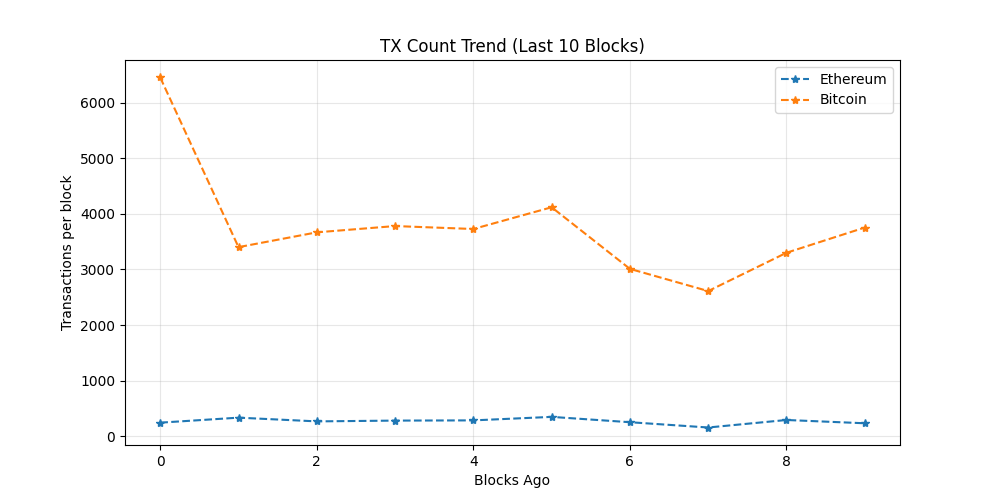
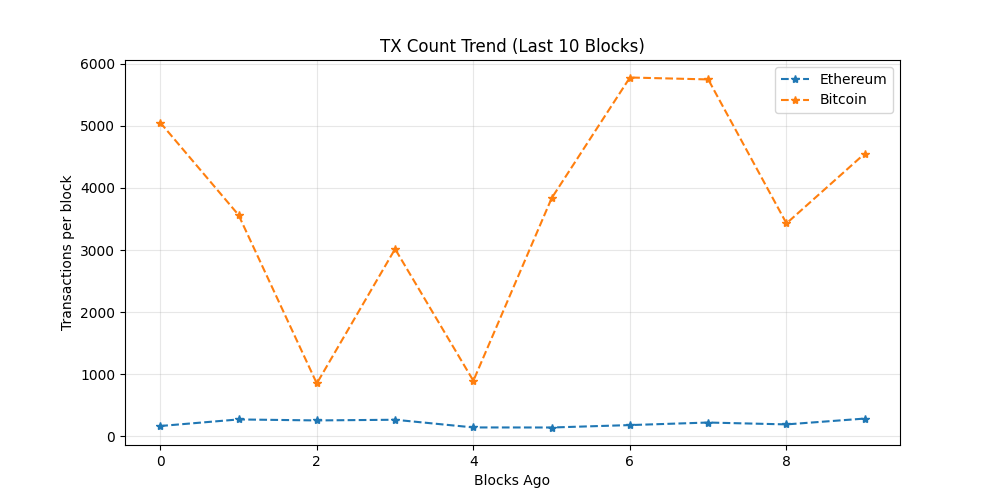
chore: update on-chain dashboard

diff --git a/README.md b/README.md
@@ -19,7 +19,7 @@ The README itself acts as the dashboard and is regenerated automatically on a 6 
 demonstrating a production-style, infrastructure-focused observability workflow rather
 than a traditional UI-driven approach.
 
-_Last updated: 2026-04-25 19:10 UTC_
+_Last updated: 2026-04-26 03:55 UTC_
 
 ## API Usage (GetBlock.io)
 - Calls used: **24**
@@ -27,8 +27,8 @@ _Last updated: 2026-04-25 19:10 UTC_
 ## Network Metrics
 | Chain | Block Height | TX Count | TPS (10 blk avg) | Block Util | Avg Fee |
 |------|-------------|----------|------------------|------------|---------|
-| Ethereum | 24959020 | 234 | 19.5 | 40.65% | 0.3 Gwei |
-| Bitcoin | 946625 | 3753 | 5.09 | 99.8% | N/A |
+| Ethereum | 24961632 | 283 | 23.58 | 99.83% | 0.1 Gwei |
+| Bitcoin | 946675 | 4555 | 4.49 | 99.79% | N/A |
 
 ## Visuals
 ### Transactions Trend
@@ -43,11 +43,8 @@ _Last updated: 2026-04-25 19:10 UTC_
 ## Whale Alerts (latest block)
 - Transaction hashes are truncated for readability.
 - Full hashes are available in `dashboards/metrics.json`
-- Bitcoin | 346.82 BTC | `e27bb4c03d2f…`
-- Bitcoin | 104.74 BTC | `34ac8e6ffce6…`
-- Bitcoin | 4113.15 BTC | `d0ec7a8eed50…`
-- Bitcoin | 754.52 BTC | `316befae1739…`
-- Bitcoin | 459.71 BTC | `675f0b8f484f…`
+- Bitcoin | 393.22 BTC | `141ff5afb67f…`
+- Bitcoin | 345.27 BTC | `7d495d344bde…`
 
 ## Run locally
 
